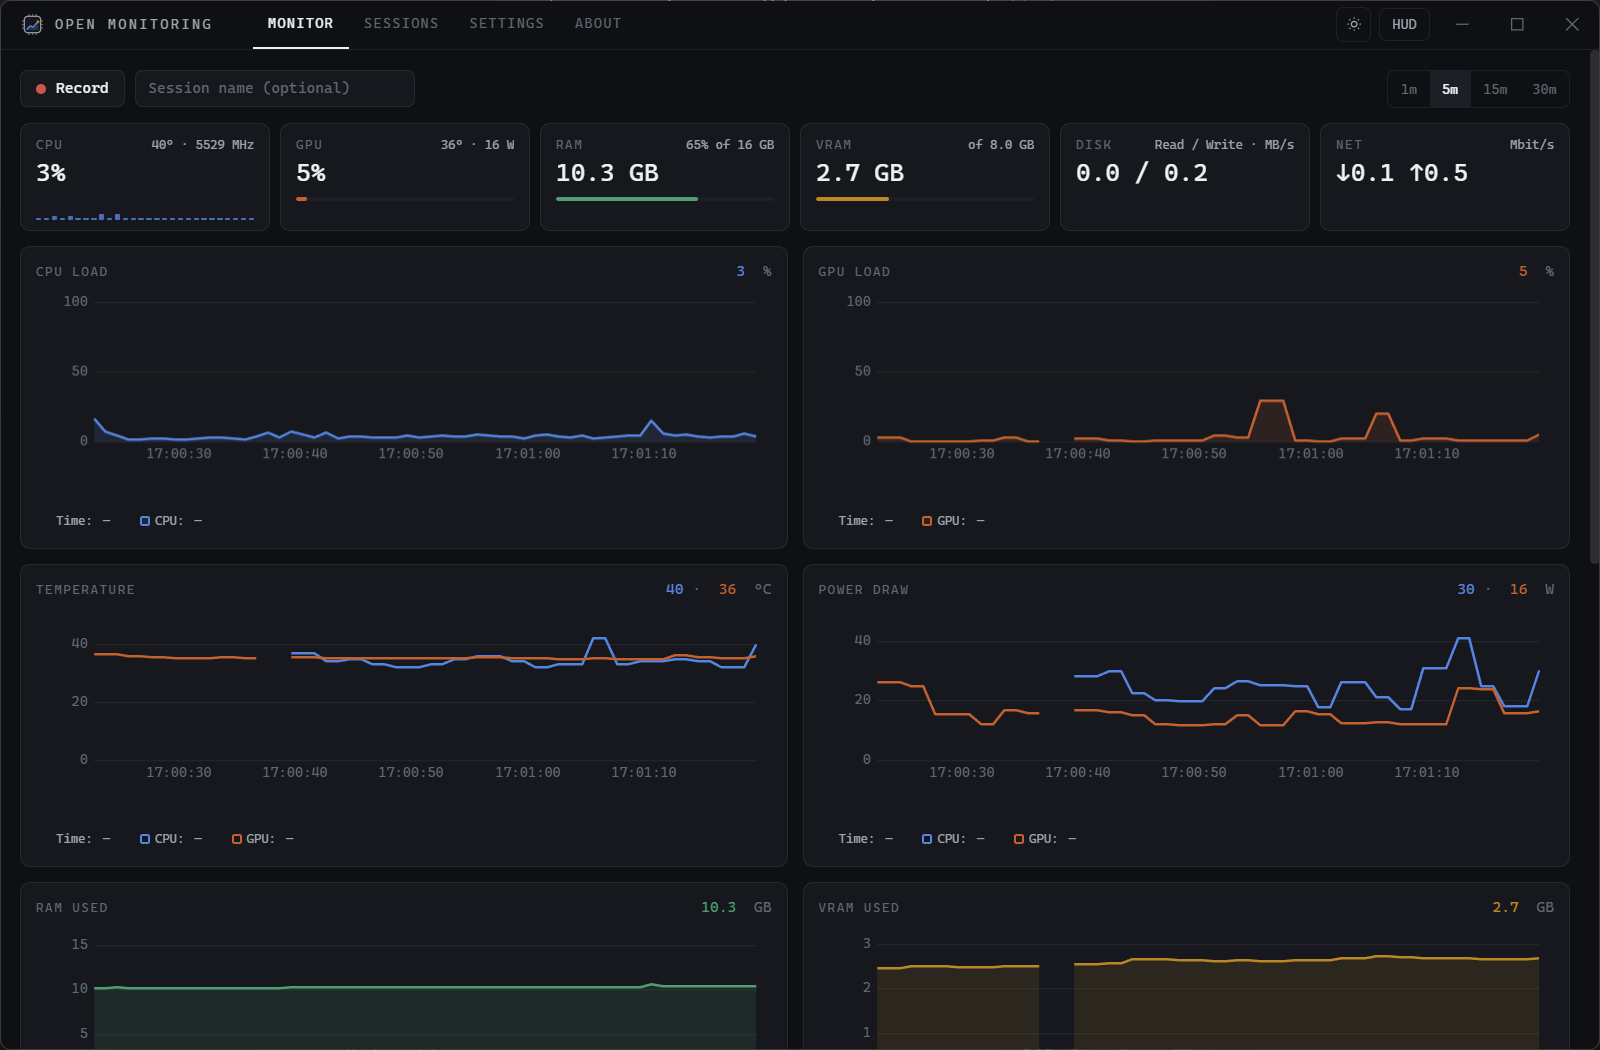
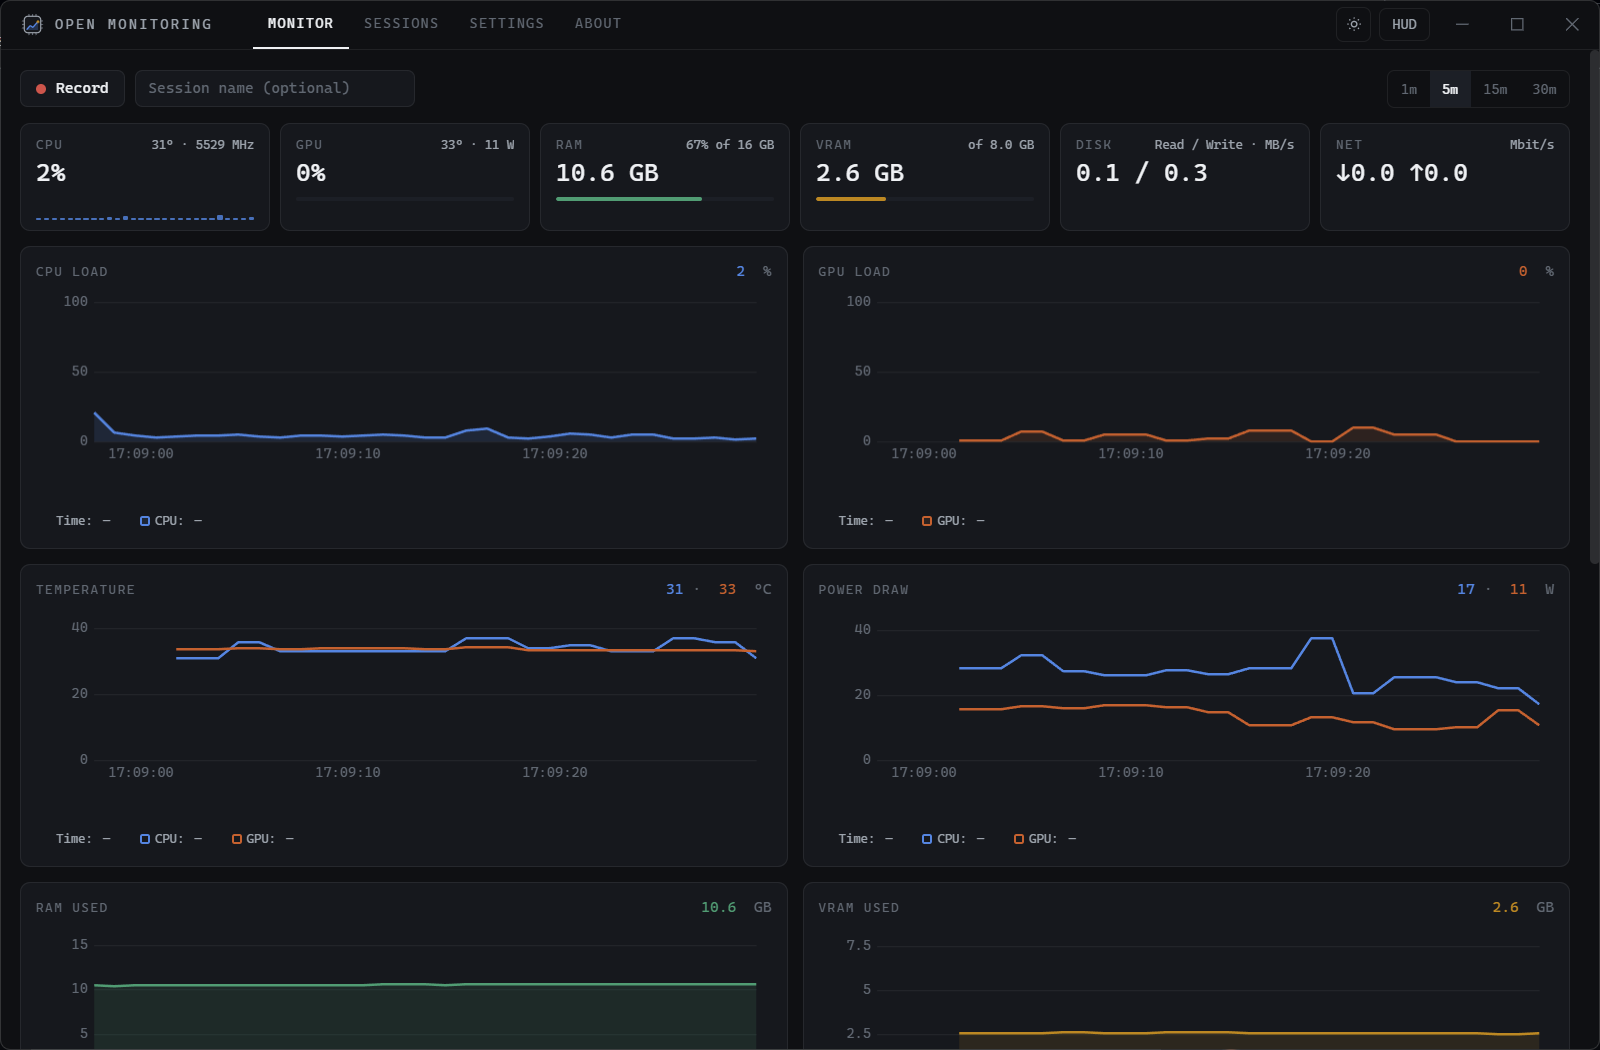
Show the app in the README with real screenshots
The screenshots section now leads with the HUD over a running game, which is
the one image that explains what this is, followed by the dashboard, the
system panel and the session list. The exported-session PNG sits behind a
details block because it is nearly four thousand pixels tall.

diff --git a/README.md b/README.md
@@ -12,13 +12,27 @@ install alongside it.
 
 ## Screenshots
 
-| Dashboard | HUD overlay |
-|---|---|
-| ![Dashboard](assets/screenshots/dashboard.png) | ![HUD overlay](assets/screenshots/hud.png) |
+The HUD over a running game — GPU, CPU and memory readouts, FPS with 1% / 0.1%
+lows, and live frame-time and FPS graphs:
 
-| System panel | Recorded session |
+![The HUD overlay on top of a game](assets/screenshots/hud.jpg)
+
+| Live dashboard | Settings and system panel |
 |---|---|
-| ![System panel](assets/screenshots/system.png) | ![Recorded session](assets/screenshots/session.png) |
+| ![Dashboard](assets/screenshots/dashboard.png) | ![Settings and system panel](assets/screenshots/system.png) |
+
+Recordings are listed on their own tab — open one as zoomable charts, or export
+the whole thing as a single image:
+
+![Recorded sessions](assets/screenshots/sessions.png)
+
+<details>
+<summary><b>A recorded session, exported as one PNG</b> — every metric over the
+whole recording, including the moment a game starts.</summary>
+
+![Recorded session exported to PNG](assets/screenshots/session-export.png)
+
+</details>
 
 ## Features
 
@@ -35,9 +49,10 @@ install alongside it.
 - **Storage** — live read/write speed and free space per volume, and per drive
   the model, bus, health, SMART temperature, remaining life and power-on hours.
 - **System panel** — a hardware summary at a glance: CPU, GPU, RAM modules,
-  motherboard, page file, OS and uptime, drives.
+  motherboard, OS and uptime, drives.
 - **Recording** — capture every metric for 1–4 hours, then browse it as
-  zoomable charts (drag to zoom, double-click to reset) or export to CSV.
+  zoomable charts (drag to zoom, double-click to reset) or export every chart
+  as one shareable PNG snapshot.
 - **HUD overlay** — a compact frameless overlay styled like a classic in-game
   OSD: sections per hardware with per-row toggles, FPS and frame-time
   sparklines, adjustable opacity and screen anchoring. Works over windowed and
